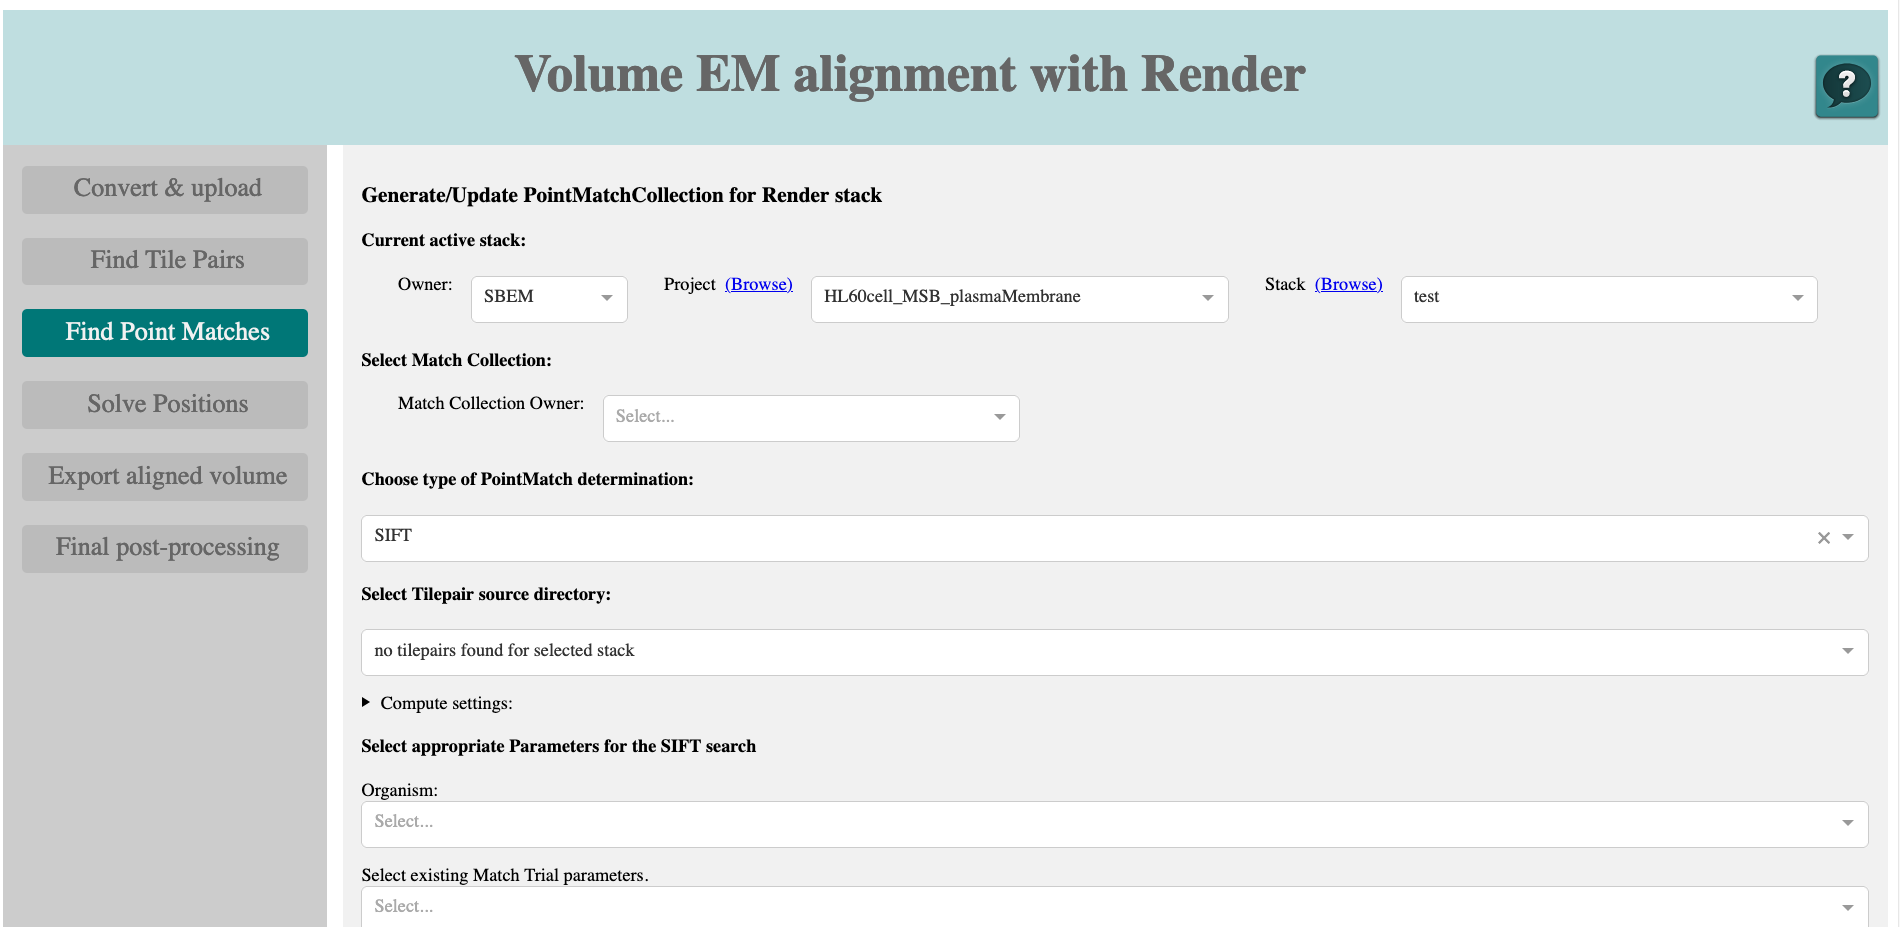
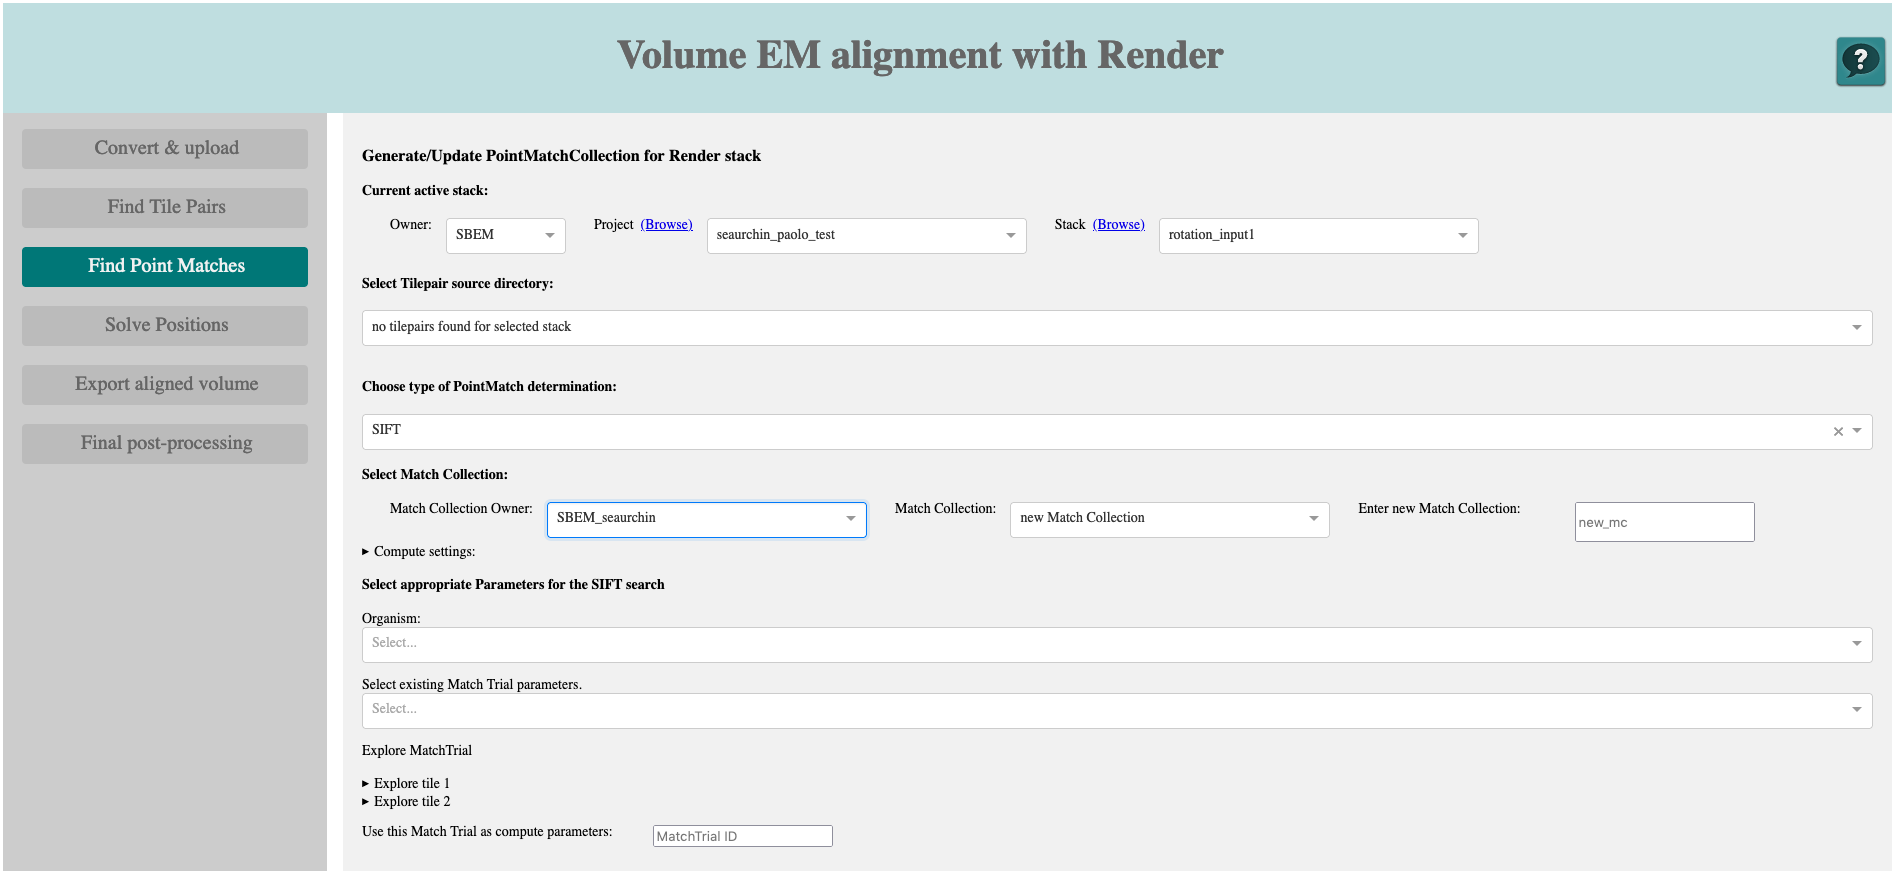
re-order and doc pointmatch

diff --git a/dash/pointmatch.py b/dash/pointmatch.py
@@ -77,32 +77,26 @@ def pointmatch_update_store(*args):
 
 page1 = pages.render_selector(module)
 
-
 page.append(page1)
-
-
-page2 = pages.match_selector(module,newcoll=True)
-
-       
-page.append(page2)       
 
 
 # ===============================================
        
-page3 = html.Div([html.H4("Choose type of PointMatch determination:"),
-                  dcc.Dropdown(id=module+'dropdown1',persistence=True,
-                               options=[{'label': 'SIFT', 'value': 'SIFT'}],
-                               value='SIFT'),                          
-                  html.Div([html.H4("Select Tilepair source directory:"),
+page2 = html.Div([html.Div([html.H4("Select Tilepair source directory:"),
                             dcc.Dropdown(id=module+'_tp_dd',persistence=True,
                                          clearable=False),
                             html.Br(),
                             html.Div(id=module+'tp_prefix',style={'display':'none'})                              
-                            ])
+                            ]),
+                  html.H4("Choose type of PointMatch determination:"),
+                  dcc.Dropdown(id=module+'dropdown1',persistence=True,
+                               options=[{'label': 'SIFT', 'value': 'SIFT'}],
+                               value='SIFT')   
               ])
 
 
-page.append(page3)  
+page.append(page2)  
+
 
 
 @app.callback([Output(module+'_tp_dd','options'),
@@ -126,6 +120,17 @@ def pointmatch_tp_dd_fill(stack):
     
 
     return tpdir_dd_options,tpdir_dd_options[-1]['value']
+
+
+
+# ===============================================
+
+
+page3 = pages.match_selector(module,newcoll=True)
+
+       
+page.append(page3)       
+
 
 
 
@@ -203,7 +208,11 @@ def pointmatch_comp_set(tilepairdir,matchtime,n_cpu,stack_sel,owner,project,stac
         stack = stack_sel
         
         if not stacklist == []:
-            stackparams = stacklist[0]        
+            stackparams = stacklist[0]     
+            
+            if 'None' in (stackparams['stackId']['owner'],stackparams['stackId']['project']):
+                return dash.no_update
+            
             out['zmin']=stackparams['stats']['stackBounds']['minZ']
             out['zmax']=stackparams['stats']['stackBounds']['maxZ']
             out['numtiles']=stackparams['stats']['tileCount']

diff --git a/docs/usage.md b/docs/usage.md
@@ -25,6 +25,30 @@ This page contains the following elements:
 
 ## Generate Tile Pairs
 
-This step will tell Render which of the tiles are neighbours in `x` and `y`. It will then have a collection of pairs that it can try to match with each other all in parallel.
+This step will tell Render which of the tiles are neighbours in `x` and `y` and also in `z`. It will then have a collection of pairs that it can try to match with each other all in parallel.
+
+It will be necessary to perform this step multiple times: once for the neighbours in `2D`, and once across slices (`3D`, here you can choose how many neighbouring sections should be considered). This is needed because the image analysis algorithms likely need different parameters to work well, especially with an anisotropic datasets. In case the data changes significantly within a stack, you can also split up your data further.
+
 
 ![convert](img/webui_tilepair.png "VolumeAlign WebUI tilepairs")
+
+## Generate/Update PointMatchCollection for Render stack
+
+This is the most resource-demanding step of the procedure. Here we now like to find matching image areas in neighbouring tiles, the so-called **Point Matches**. This can be done using various image analysis methods like cross-correlation or [SIFT](https://en.wikipedia.org/wiki/Scale-invariant_feature_transform).
+
+It will be necessary to perform this step multiple times: once for the neighbours in `x` and `y`, and once across slices. This is needed because the image analysis algorithms likely need different parameters to work well, especially with an anisotropic datasets. In case the data changes significantly within a stack, you can also split up your data further.
+
+![convert](img/webui_tilepair.png "VolumeAlign WebUI tilepairs")
+
+This page contains the following elements:
+
+- **Tilepair source directory selector:** here you select the tile pairs you want to process. These are the results of the previous step and will be shown based on the stack selection.
+
+- **Type selector:** choose the type of image analysis algorithm to use for determining the point matches. The rest of the page will adapt accordingly.
+
+At the moment, only the SIFT client developed in Janelia that makes use of [Spark](https://en.wikipedia.org/wiki/Apache_Spark) for resource parallelisation is implemented.
+
+- **Select Match Collection:** The results of the analysis will be stored in a database (independent from the stack database). You can store as many runs into the same collection, even if they comprise the same pairs. If you want to add matches to an existing collection, select one. Otherwise create a new one. The `Owner` should describe the nature and project of your dataset while the collection name would specify the stack and potentially some hint about the method(s) and parameters used for determining the matches.
+
+
+### SIFT point matches
